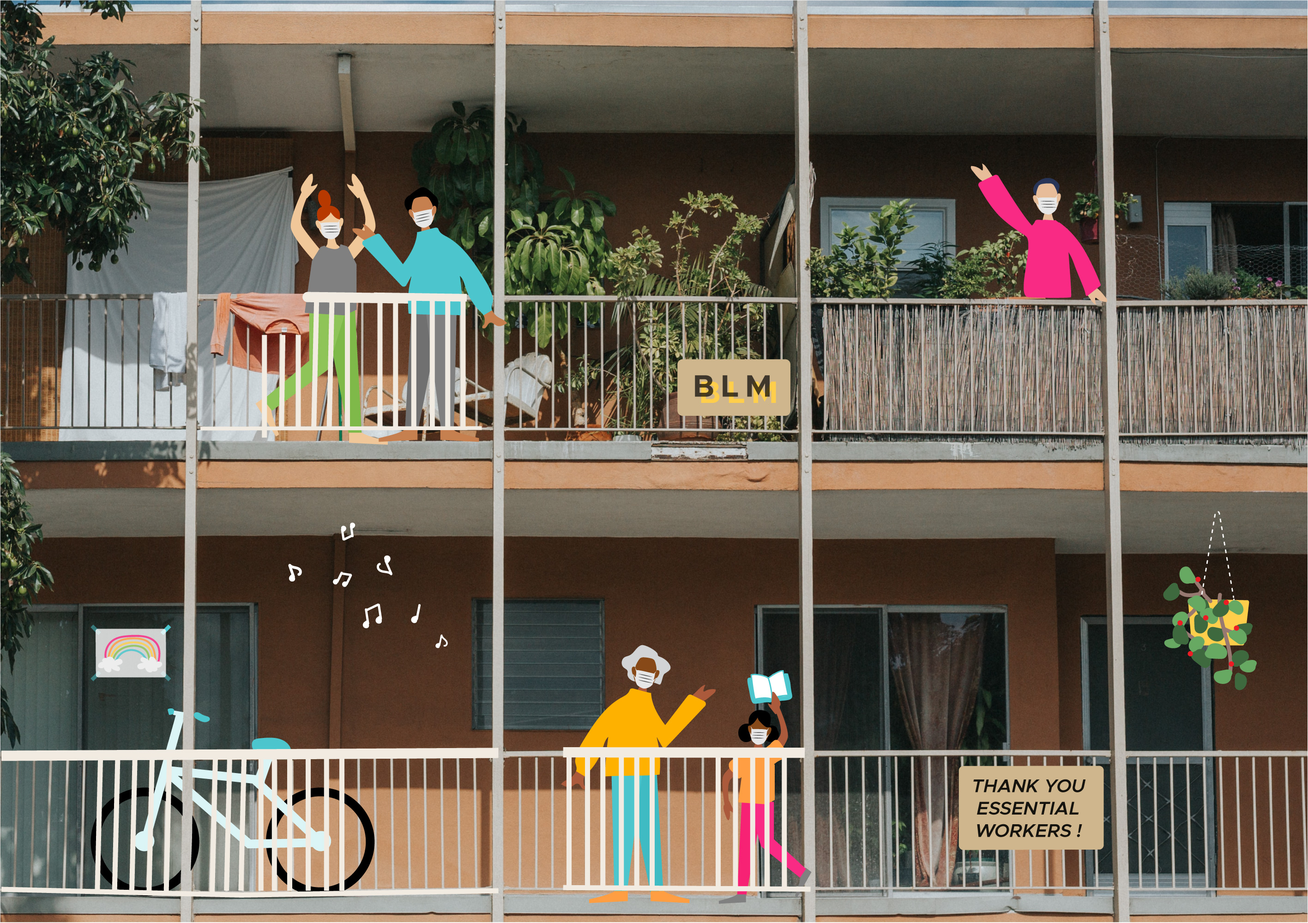
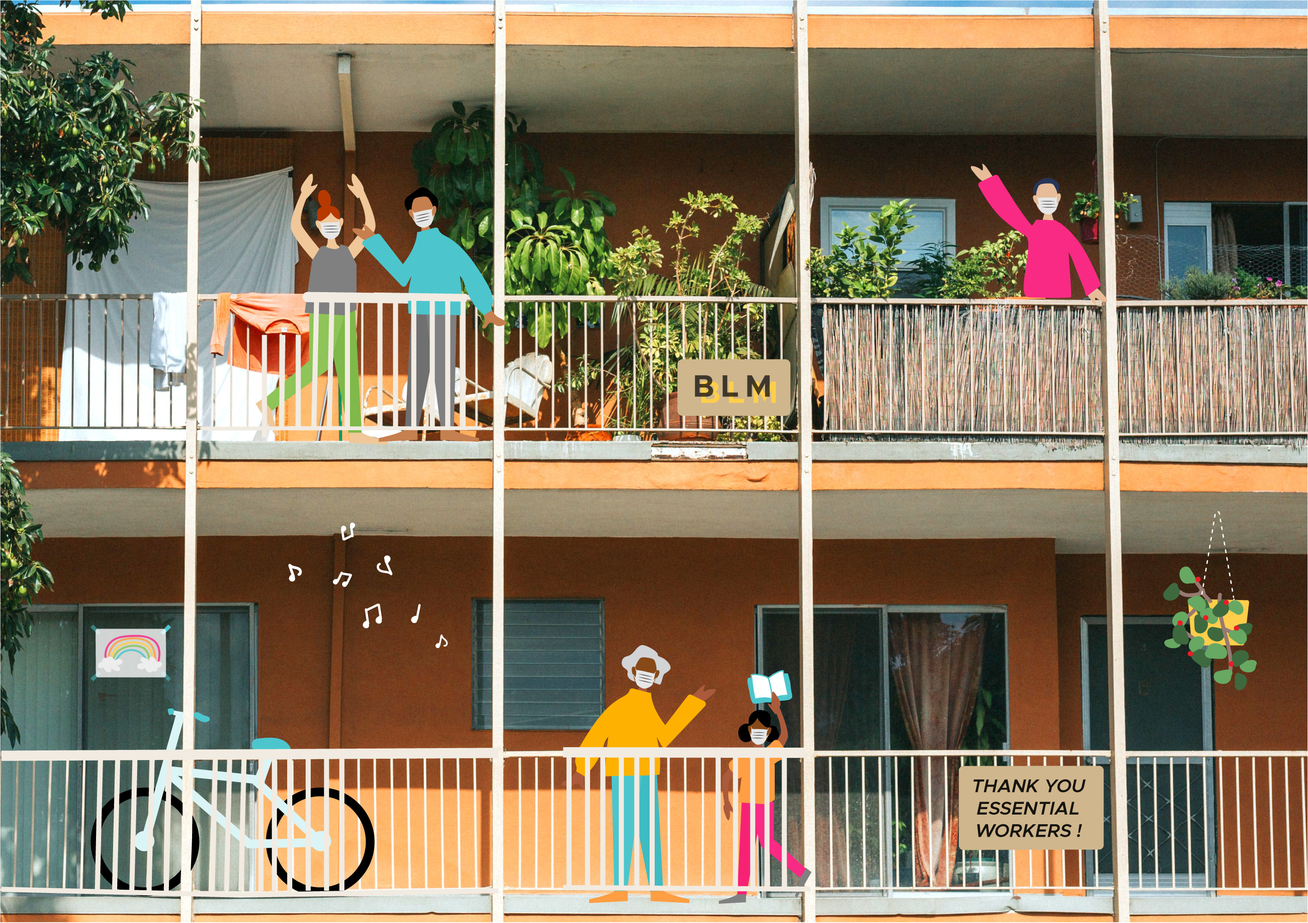
Update balcony image

diff --git a/_includes/balcony-background.html b/_includes/balcony-background.html
@@ -1,7 +1,7 @@
 <svg version="1.1" id="Layer_1" xmlns="http://www.w3.org/2000/svg" xmlns:xlink="http://www.w3.org/1999/xlink" x="0px" y="0px"
    viewBox="0 0 425.6799927 182.2400055" enable-background="new 0 0 425.6799927 182.2400055" xml:space="preserve"  aria-label="Toward a brighter future, together." role="img">
 
-   <image overflow="visible" width="1064" height="751" xlink:href="/assets/images/balcony.jpg?v=1"  transform="matrix(0.24 0 0 0.24 169.3185883 1)">
+   <image overflow="visible" width="1064" height="751" xlink:href="/assets/images/balcony.jpg?v=2"  transform="matrix(0.24 0 0 0.24 169.3185883 1)">
    </image>
 
 </svg>
